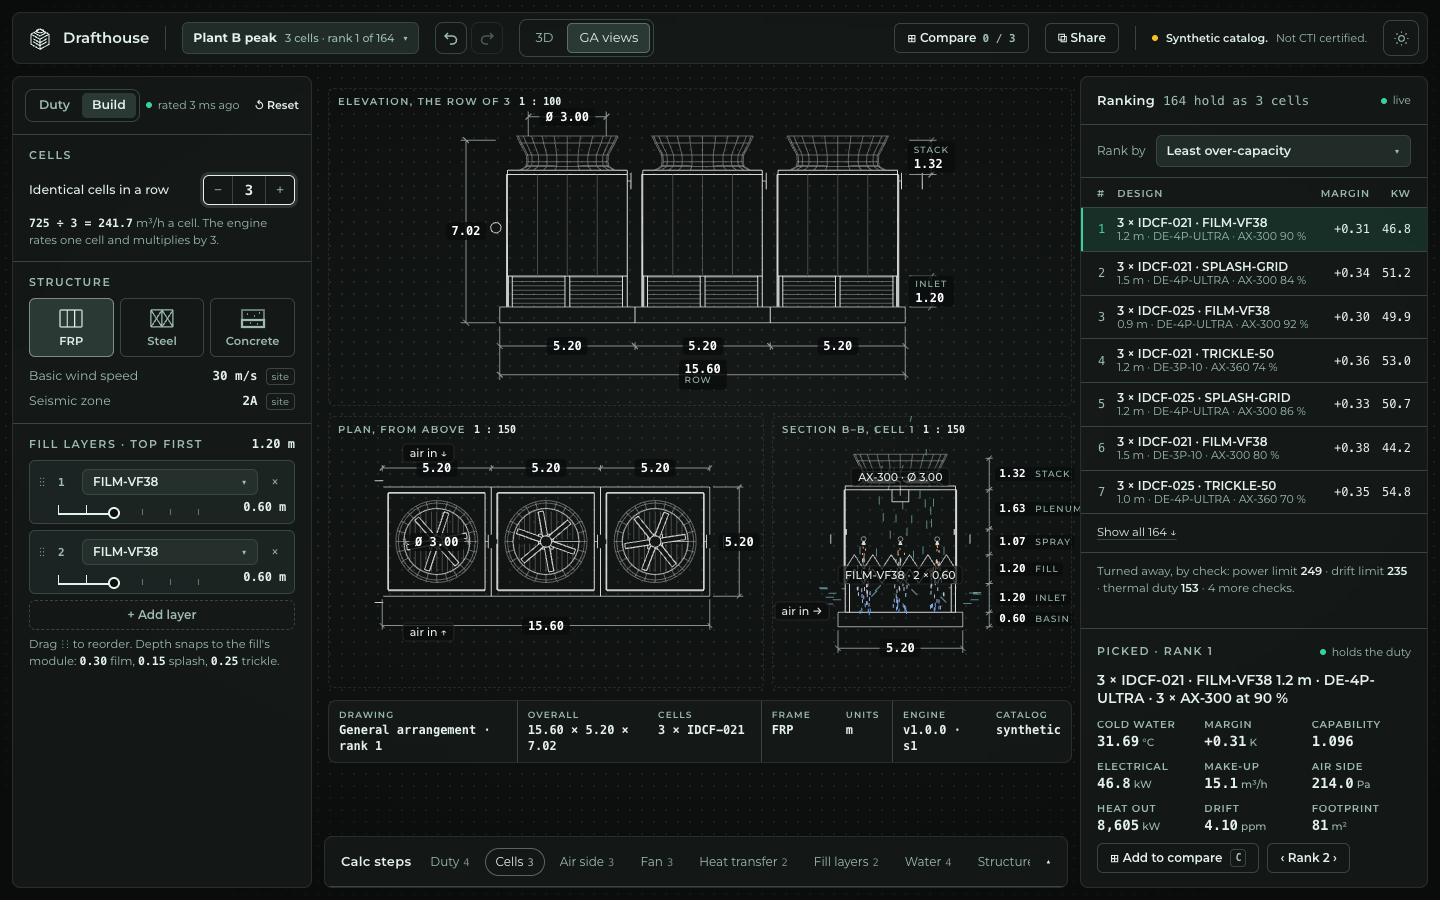
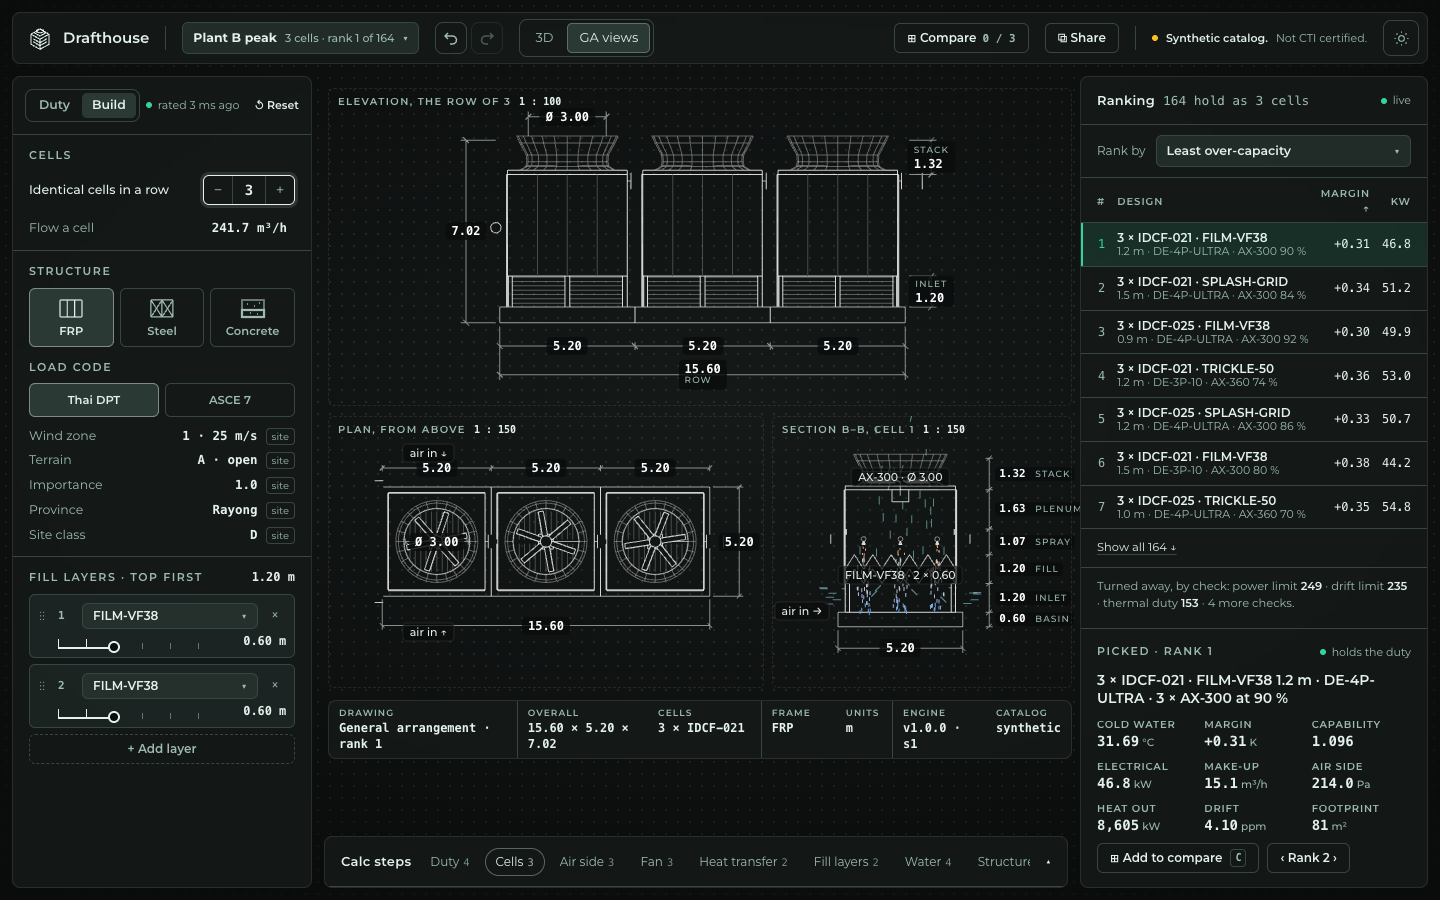
docs(design): load-code picker (Thai DPT, ASCE 7), no helper prose, sort key on its column (#1)

diff --git a/docs/design/restart/cockpit.js b/docs/design/restart/cockpit.js
@@ -1,5 +1,6 @@
 // Preview-only: fills the cockpit from the fixture and draws one state per URL. ?s=layers|cells|structure|parts|compare picks
-// the state, ?ga the GA sheet, ?refused the refused duty, ?sheet=inputs|build|ranking|calc|parts|compare the phone sheet, ?light, ?poster. Not product code.
+// the state, ?ga the GA sheet, ?refused the refused duty, ?sheet=inputs|build|ranking|calc|parts|compare the phone sheet, ?code=asce the ASCE 7 load code, ?light,
+// ?poster. Not product code.
 import { mountModel, mountGA } from "./model.js";
 
 const qs = new URLSearchParams(location.search), $ = (s) => document.querySelector(s);
@@ -64,21 +65,25 @@ const layerRow = ([id, d], i, { on = false, lift = false, snap = false } = {}) =
   return `<div class="ly ${on ? "on" : ""} ${lift ? "lift" : ""}"><i class="grip">⋮⋮</i><span class="n">${i + 1}</span><span class="in sel">${id}<i>▾</i></span><span class="x">×</span>
     <div class="rl"><span class="ticks" style="--d:${pct}">${Array.from({ length: n }, (_, j) => `<i class="${j < k ? "f" : ""}"></i>`).join("")}<b class="k"></b></span><span class="v">${d.toFixed(2)} m</span></div>${snap ? `<span class="snapn">${k} modules × ${f.stepM.toFixed(2)} m · snapped</span>` : ""}</div>`;
 };
-const struct = S === "structure" ? "steel" : "frp", cells = S === "cells" ? 3 : 1;
+const struct = S === "structure" ? "steel" : "frp", cells = S === "cells" ? 3 : 1, code = qs.get("code") === "asce" ? "asce" : "dpt";
+const site = {
+  dpt: [["Wind zone", "1 · 25 m/s"], ["Terrain", "A · open"], ["Importance", "1.0"], ["Province", "Rayong"], ["Site class", "D"]],
+  asce: [["Basic wind speed", "30 m/s"], ["Exposure", "C"], ["K<sub>zt</sub>", "1.00"], ["S<sub>s</sub> · S<sub>1</sub>", "0.12 · 0.05 g"], ["Site class", "D"]],
+}[code];
 const layers = layersOf(geom), depth = layers.reduce((s, [, d]) => s + d, 0);
 let rows;
 if (S === "layers" && phone && sheet === "build") rows = layerRow(layers[0], 0) + `<div class="ly slot"></div>` + layerRow(["SPLASH-GRID", 0.3], 1, { lift: true }) + layerRow(layers[2], 2);
 else rows = layers.map((l, i) => layerRow(l, i, { on: S === "layers" && i === 2, snap: S === "layers" && i === 2 })).join("");
 const groups = [`  <div class="grp"><span class="eyebrow">Cells</span>
     <div class="f"><label>Identical cells in a row</label><span class="stp ${S === "cells" ? "focus" : ""}"><span>−</span><b>${cells}</b><span>+</span></span></div>
-    <p class="note">${cells > 1 ? `<b>725 ÷ 3 = 241.7</b> m³/h a cell. The engine rates one cell and multiplies by 3.` : "The whole flow goes through one cell. Add cells to split it evenly."}</p></div>
+    <dl class="kv" style="margin-top:10px"><dt>Flow a cell</dt><dd>${(725 / cells).toFixed(1)} m³/h</dd><span></span></dl></div>
   <div class="grp"><span class="eyebrow">Structure</span>
     <div class="seg3">${[["frp", "FRP"], ["steel", "Steel"], ["concrete", "Concrete"]].map(([k, l]) => `<span class="${k === struct ? "on" : ""}">${ICON[k]}${l}</span>`).join("")}</div>
-    <dl class="kv" style="margin-top:10px"><dt>Basic wind speed</dt><dd>30 m/s</dd><span class="tag">site</span><dt>Seismic zone</dt><dd>2A</dd><span class="tag">site</span></dl></div>
+    <span class="eyebrow" style="display:block;margin:12px 0 8px">Load code</span><div class="seg3" style="grid-template-columns:repeat(2,1fr)">${[["dpt", "Thai DPT"], ["asce", "ASCE 7"]].map(([k, l]) => `<span class="${k === code ? "on" : ""}">${l}</span>`).join("")}</div>
+    <dl class="kv" style="margin-top:10px">${site.map(([t, v]) => `<dt>${t}</dt><dd>${v}</dd><span class="tag">site</span>`).join("")}</dl></div>
 `, `  <div class="grp"><div class="lyh"><span class="eyebrow">Fill layers · top first</span><b>${depth.toFixed(2)} m</b></div>${rows}
-    <span class="addly">+ Add layer</span>
-    <p class="note">Drag ⋮⋮ to reorder. Depth snaps to the fill's module: <b>0.30</b> film, <b>0.15</b> splash, <b>0.25</b> trickle.</p></div>`];
-$("#build").innerHTML = (phone ? [groups[1], groups[0]] : groups).join("");
+    <span class="addly">+ Add layer</span></div>`];
+$("#build").innerHTML = (phone && S !== "structure" ? [groups[1], groups[0]] : groups).join("");
 
 const base = RANKED[0];
 const cellsRank = [
@@ -97,7 +102,7 @@ const tr = (r, i) => S === "layers" && i > 0
 const rowsHtml = list.slice(0, phone ? 5 : (S === "parts" ? 6 : 7)).map(tr).join("");
 const total = { cells: 164, parts: 58 }[S] || 202;
 const rej = REJECTED.slice(0, 3).map(([t, n]) => `${t.toLowerCase()} <b>${n}</b>`).join(" · ");
-const table = `<table class="rk"><tr><th>#</th><th>Design</th><th>Margin</th><th>kW</th></tr>${rowsHtml}</table><div class="rej" style="border-top:1px solid var(--rule)"><a href="#">Show all ${total} ↓</a></div>${S === "parts" ? "" : `<div class="rej">Turned away, by check: ${rej} · 4 more checks.</div>`}`;
+const table = `<table class="rk"><tr><th>#</th><th>Design</th><th>Margin ↑</th><th>kW</th></tr>${rowsHtml}</table><div class="rej" style="border-top:1px solid var(--rule)"><a href="#">Show all ${total} ↓</a></div>${S === "parts" ? "" : `<div class="rej">Turned away, by check: ${rej} · 4 more checks.</div>`}`;
 const nums = {
   base: [["Cold water", "31.70", "°C"], ["Margin", "+0.30", "K"], ["Capability", "1.093", ""], ["Electrical", "44.9", "kW"], ["Make-up", "15.0", "m³/h"], ["Air side", "237.6", "Pa"], ["Heat out", "8,619", "kW"], ["Drift", "4.14", "ppm"], ["Footprint", "78", "m²"]],
   layers: [["Cold water", "31.58", "°C", "−0.12"], ["Margin", "+0.42", "K", "+0.12"], ["Capability", "1.131", "", "+0.038"], ["Electrical", "47.1", "kW", "+2.2"], ["Make-up", "15.0", "m³/h"], ["Air side", "252.8", "Pa", "+15.2"], ["Heat out", "8,672", "kW", "+53"], ["Drift", "4.14", "ppm"], ["Footprint", "78", "m²"]],
@@ -160,10 +165,14 @@ const steps = {
     ["1.6", "One cell rated", "The engine rates one cell at its share; the others are the same.", "Q<sub>cell</sub> = ṁ<sub>cell</sub> · c<sub>p</sub> · R", "66.67 × 4.183 × 10.00", "2,789 kW", "IDCF-021 at 241.7 m³/h"],
     ["1.7", "Row totals", "Power, make-up and footprint scale with N. Temperatures don't.", "P<sub>el</sub> = N · P<sub>el, cell</sub>", "3 × 15.60", "46.8 kW", "multiply, not re-rate", "hl"],
   ],
-  Structure: [
-    ["7.1", "Design wind pressure", "Wind pushes hardest at the top. The site's basic speed is scaled for height and exposure.", "q<sub>z</sub> = 0.613 · K<sub>z</sub> · K<sub>zt</sub> · V²", "0.613 × 1.04 × 1.00 × 30²", "574 Pa", "30 m/s · exposure C"],
-    ["7.2", "Wind on the casing", "The whole windward face, as a solid box.", "F = q<sub>z</sub> · G · C<sub>f</sub> · A", "0.574 × 0.85 × 1.3 × (8.60 × 8.20)", "44.7 kN", "seismic 35.4 kN · wind governs"],
-    ["7.3", "Corner column", "The worst member: wind shear and overturning land on the windward corner.", "N / φN<sub>c</sub> + M / φM<sub>b</sub> ≤ 1", "61.8 ÷ 731 + 17.9 ÷ 38.6", "0.55", "SHS 150 × 150 × 6 · S275", "hl"],
+  Structure: code === "dpt" ? [
+    ["7.1", "Reference velocity pressure", "DPT 1311, zone 1.", "q = ½ · ρ · V̄²", "0.5 × 1.25 × 25²", "390.6 Pa", "V̄ 25 m/s · 50-year"],
+    ["7.2", "Wind on the casing", "Windward face.", "F = I<sub>w</sub> · q · C<sub>e</sub> · C<sub>g</sub> · C<sub>p</sub> · A", "1.0 × 390.6 × 0.90 × 2.0 × 0.90 × 70.52", "44.6 kN", "seismic DPT 1301 35.4 kN · wind governs"],
+    ["7.3", "Corner column", "Worst member.", "N / φN<sub>c</sub> + M / φM<sub>b</sub> ≤ 1", "61.7 ÷ 731 + 17.9 ÷ 38.6", "0.55", "SHS 150 × 150 × 6 · S275", "hl"],
+  ] : [
+    ["7.1", "Design wind pressure", "ASCE 7, exposure C.", "q<sub>z</sub> = 0.613 · K<sub>z</sub> · K<sub>zt</sub> · V²", "0.613 × 1.04 × 1.00 × 30²", "574 Pa", "30 m/s · exposure C"],
+    ["7.2", "Wind on the casing", "Windward face.", "F = q<sub>z</sub> · G · C<sub>f</sub> · A", "0.574 × 0.85 × 1.3 × (8.60 × 8.20)", "44.7 kN", "seismic ASCE 7 35.4 kN · wind governs"],
+    ["7.3", "Corner column", "Worst member.", "N / φN<sub>c</sub> + M / φM<sub>b</sub> ≤ 1", "61.8 ÷ 731 + 17.9 ÷ 38.6", "0.55", "SHS 150 × 150 × 6 · S275", "hl"],
   ],
 };
 const chart = () => {
@@ -247,13 +256,12 @@ const lead = (from, el) => {
 const callouts = {
   fan: ["Fan · AX-500 · 8 blades", [["Diameter", "√(4 × 19.635 / π)", "5.00 m"], ["Speed", "chosen in 0.70 to 1.13", "88 %"], ["Electrical input", "40.97 ÷ (0.96 × 0.95)", "44.9 kW"]]],
   "fill:2": ["Fill layer 3 · SPLASH-GRID", [["Depth", "2 modules × 0.15", "0.30 m"], ["Transfer", "0.94 × 1.40<sup>−0.51</sup> × 0.30", "0.238"], ["Pressure drop", "share of 252.8 Pa", "17.6 Pa"]]],
-  frame: ["Frame · steel · 10 columns", [["Corner column", "SHS 150 × 150 × 6", "0.55"], ["Inlet brace", "L 75 × 75 × 6, X-braced", "0.71"], ["Wind on casing", "0.574 × 0.85 × 1.3 × 70.5", "44.7 kN"]]],
+  frame: ["Frame · steel · 10 columns", [["Corner column", "SHS 150 × 150 × 6", "0.55"], ["Inlet brace", "L 75 × 75 × 6, X-braced", "0.71"], ["Wind on casing", code === "dpt" ? "632.8 Pa × 70.5 m²" : "0.574 × 0.85 × 1.3 × 70.5", code === "dpt" ? "44.6 kN" : "44.7 kN"]]],
 };
 const callout = (k, x, y) => {
   const [h, rows2] = callouts[k];
-  return add(`<div class="dock callout" style="left:${x}px;top:${y}px"><span class="eyebrow">Picked part · click any part</span><h3>${h}</h3>
-    ${rows2.map(([a, f, r]) => `<div class="row"><span>${a}<div class="fx">${f}</div></span><span class="r">${r}</span></div>`).join("")}
-    <span class="q" style="font-size:11px">Its steps are open in the calc drawer ↓ · <b class="kbd">P</b> pin it</span></div>`);
+  return add(`<div class="dock callout" style="left:${x}px;top:${y}px"><span class="eyebrow">Picked part</span><h3>${h}</h3>
+    ${rows2.map(([a, f, r]) => `<div class="row"><span>${a}<div class="fx">${f}</div></span><span class="r">${r}</span></div>`).join("")}</div>`);
 };
 const hints = `<span><b>Drag</b> orbit</span><span><b>Scroll</b> zoom</span><span><b>Click</b> a part</span><span><b>1–4</b> views</span><span><b>P</b> pin</span><span><b>F</b> fit</span><span><b>⌘Z</b> undo</span>`;
 

diff --git a/docs/design/restart/README.md b/docs/design/restart/README.md
@@ -2,7 +2,8 @@
 
 Decision: The cockpit stays one screen, now in calm colour: a graphite tower with white edges, grey dimension lines and white numbers. Green marks only the picked part (with a soft halo), the picked row, the live dot and the primary button. A Build tab sets identical cells, the structure (FRP, steel, concrete) and a fill layer stack you reorder and size in module steps. A parts tray beside the tower pins parts by dragging them on, and refuses in plain words a part that can't work. Every edit re-rates live, can be undone, and numbers tween. Up to 3 designs sit side by side in a compare tray. Scenarios are saved by name and shared by link.
 Screens: the cockpit at 1440 and 390 in eleven states: 3D, GA views, refused duty, light, first paint, fill layers, 3 cells (3D and GA), structure check, a part pinned and one refused, and compare. Plus the phone sheets.
-Open questions: (1) The structural check uses ASCE 7-style wind and seismic steps. Should it follow Thai codes (DPT 1311 wind, DPT 1301/1302 seismic) instead? (2) Saved scenarios live in the browser and a link carries the whole scenario, so nothing is stored server-side and there is no spend. Is that enough, or do you want accounts? (3) Still open from last round: three.js loads right after first paint, behind the poster, not on scroll. OK?
+The structure panel has a load-code picker: Thai DPT (1311 wind, 1301 seismic) by default, or ASCE 7, each with its own site inputs. The ranking sorts by the rank-by key, marked on its column. Panels carry no helper prose lines.
+Open questions: (1) Saved scenarios live in the browser and a link carries the whole scenario, so nothing is stored server-side and there is no spend. Is that enough, or do you want accounts? (2) Still open from last round: three.js loads right after first paint, behind the poster, not on scroll. OK?
 
 ## Images
 
@@ -11,9 +12,10 @@ Open questions: (1) The structural check uses ASCE 7-style wind and seismic step
 | `cockpit-1440.png`, `cockpit-390.png` | The calm cockpit. Top bar: the scenario menu, undo and redo, 3D or GA, Compare (0 of 3), Share, the notice and the theme. The view toggles and Fit (F) float over the stage. The parts tray (Fill, Eliminator, Fan, Nozzles, Casing) sits beside the tower. The tower is graphite with white edges and grey dimensions. Only the picked fan is green, with a soft halo. Water (hot to cold) and air keep their colours. A shortcut line runs under the tower: 1–4 views, P pin, F fit, ⌘Z undo. On the phone the picked part is a chip at the top right, and the sheet bar has Inputs, Build, Ranking and Calc. |
 | `cockpit-layers-1440.png` | Fill layers. The Build tab shows the stack top first: FILM-VF38 0.60, FILM-VF38 0.60, then the new SPLASH-GRID 0.30. Each layer has its fill, a ruler with that fill's module ticks (snapped to "2 modules × 0.15 m") and a remove button. Add layer and drag-to-reorder are there too. In 3D each layer is its own band (film sheets, splash bars, trickle grid), the new one is picked, and a fill dimension reads 1.50 m. The height grows to 8.50 m. A toast offers undo. The ranking re-ranks under grey skeleton rows (no spinner). The picked numbers carry their tween deltas (−0.12 °C, +2.2 kW). The calc drawer opens Fill layers: transfer per layer, then the stack against the duty (capability 1.131), with a bar per layer. |
 | `cockpit-layers-390.png` | The Build sheet on the phone, layers first. Layer 2 is lifted mid-drag over its dashed slot, and the tower above already shows the new order. |
-| `cockpit-cells-1440.png`, `cockpit-cells-390.png` | 3 cells. The stepper reads 3: "725 ÷ 3 = 241.7 m³/h a cell; the engine rates one cell and multiplies by 3". The 3D shows three identical IDCF-021 cells in a row, 15.60 m long. The ranking is for 3 cells (164 hold). The calc drawer opens Cells: flow per cell, one cell rated, row totals, with a cell-versus-row table. |
+| `cockpit-cells-1440.png`, `cockpit-cells-390.png` | 3 cells. The stepper reads 3, with "Flow a cell 241.7 m³/h" under it. The 3D shows three identical IDCF-021 cells in a row, 15.60 m long. The ranking is for 3 cells (164 hold). The calc drawer opens Cells: flow per cell, one cell rated, row totals, with a cell-versus-row table. |
 | `cockpit-cells-ga-1440.png`, `cockpit-cells-ga-390.png` | The 3-cell GA sheet. The row elevation has its cell chain (5.20 × 3) and the 15.60 row length. The plan shows three fans, and section B–B cuts through cell 1 with its height chain. The title block names the overall size, the cells and the frame. On the phone: the row elevation. |
-| `cockpit-structure-1440.png`, `cockpit-structure-390.png` | Steel picked in the structure picker. The casing turns to ribbed cladding with five posts a side and X-bracing in the air inlets. The frame is the picked part, and its card gives the corner column at 0.55, the brace at 0.71 and the wind at 44.7 kN. The calc drawer opens Structure: design wind pressure, wind on the casing (seismic 35.4 kN, wind governs) and the corner column check. Beside them, member checks as utilisation bars against 1.00. |
+| `cockpit-structure-1440.png`, `cockpit-structure-390.png`, `cockpit-structure-build-390.png` | Steel picked in the structure picker, with the load code on Thai DPT (1311 wind, 1301 seismic) and its site inputs (wind zone, terrain, importance, province, site class). The casing turns to ribbed cladding with five posts a side and X-bracing in the air inlets. The frame is the picked part, and its card gives the corner column at 0.55, the brace at 0.71 and the wind at 44.7 kN. The calc drawer opens Structure by DPT 1311: reference velocity pressure, wind on the casing (44.6 kN; DPT 1301 seismic 35.4 kN, wind governs) and the corner column check. Beside them, member checks as utilisation bars against 1.00. On the phone: the calc sheet, and the Build sheet with cells, the structure and the load code first. |
+| `cockpit-structure-asce-1440.png`, `cockpit-structure-asce-390.png` | The same with ASCE 7 picked: its own site inputs (basic wind speed, exposure, K<sub>zt</sub>, S<sub>s</sub> and S<sub>1</sub>, site class) and its q<sub>z</sub> steps (wind 44.7 kN). On the phone: the Build sheet. |
 | `cockpit-parts-1440.png`, `cockpit-parts-390.png` | The parts tray open on Fill. The fan was pinned to AX-600 earlier: its pin badge sits on the tower ("drag off to unpin"), the tray shows a pin count on Fan, and the ranking reads "Pinned: Fan · AX-600 ×", with 58 designs ranked around it. FILM-VF19 is being dragged onto the fill. The fill turns red and the card says why in plain words: "FILM-VF19 clogs in moderate water: its 19 mm flutes need clean water". It offers two fixes. On the phone the tray is a short sheet with category chips and a card row. |
 | `cockpit-compare-1440.png`, `cockpit-compare-390.png` | The compare tray in place of the calc drawer, with 3 designs: rank 1 (picked, edged), the AX-600 pin, and 3 cells. Each has a line thumbnail and rows for cold water, margin, electrical, make-up, drift, footprint and height, with "best" tags in grey. The scenario menu is open: saved scenarios, save as, and the share link. |
 | `cockpit-ga-1440.png`, `cockpit-ga-390.png` | The single-cell GA sheet in calm colours. The title block gains the frame line (FRP). |
